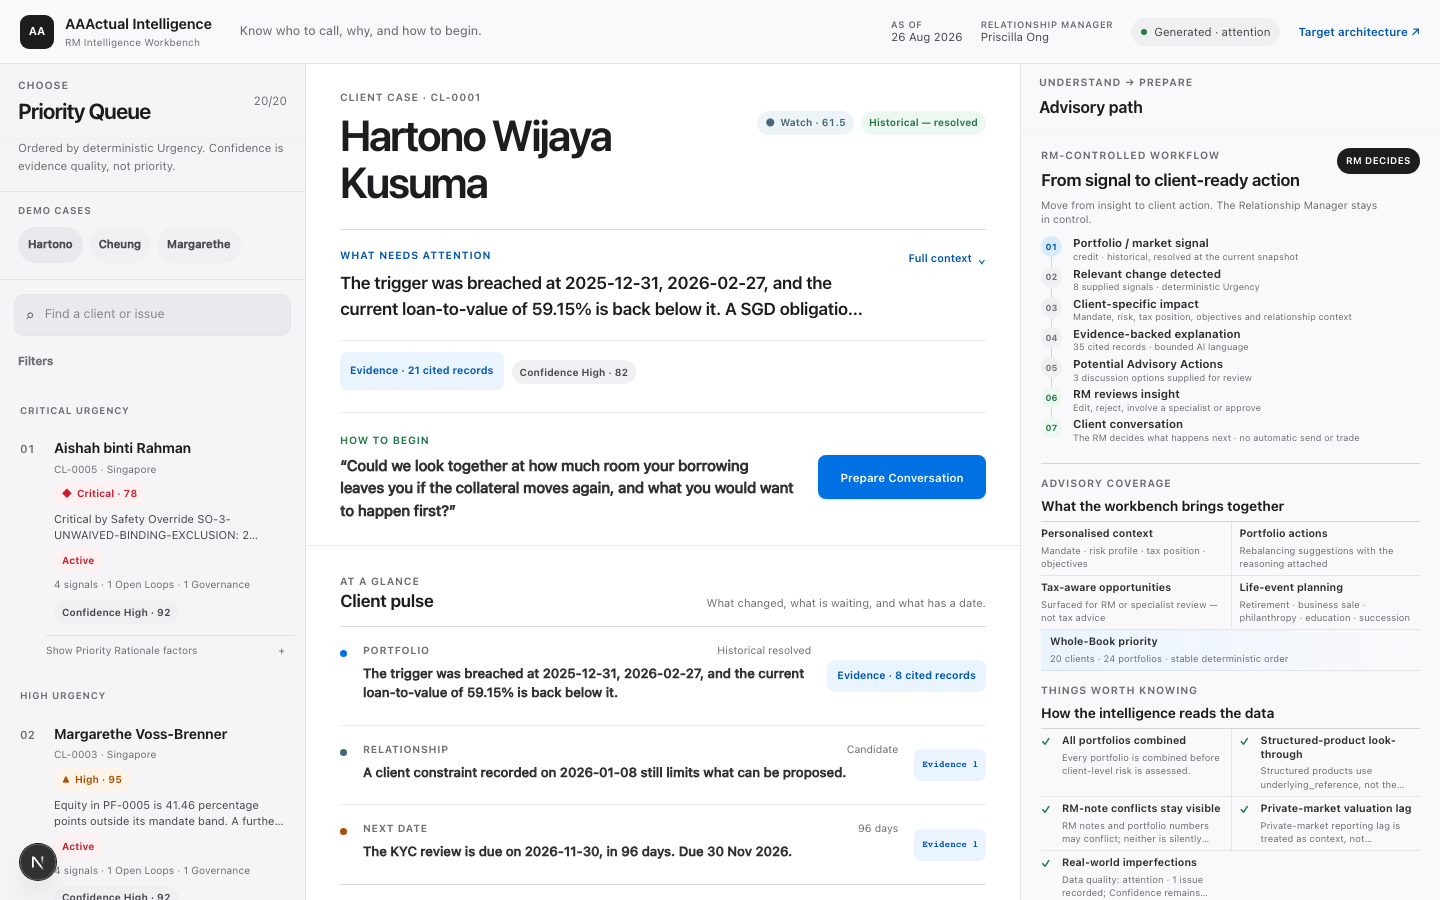
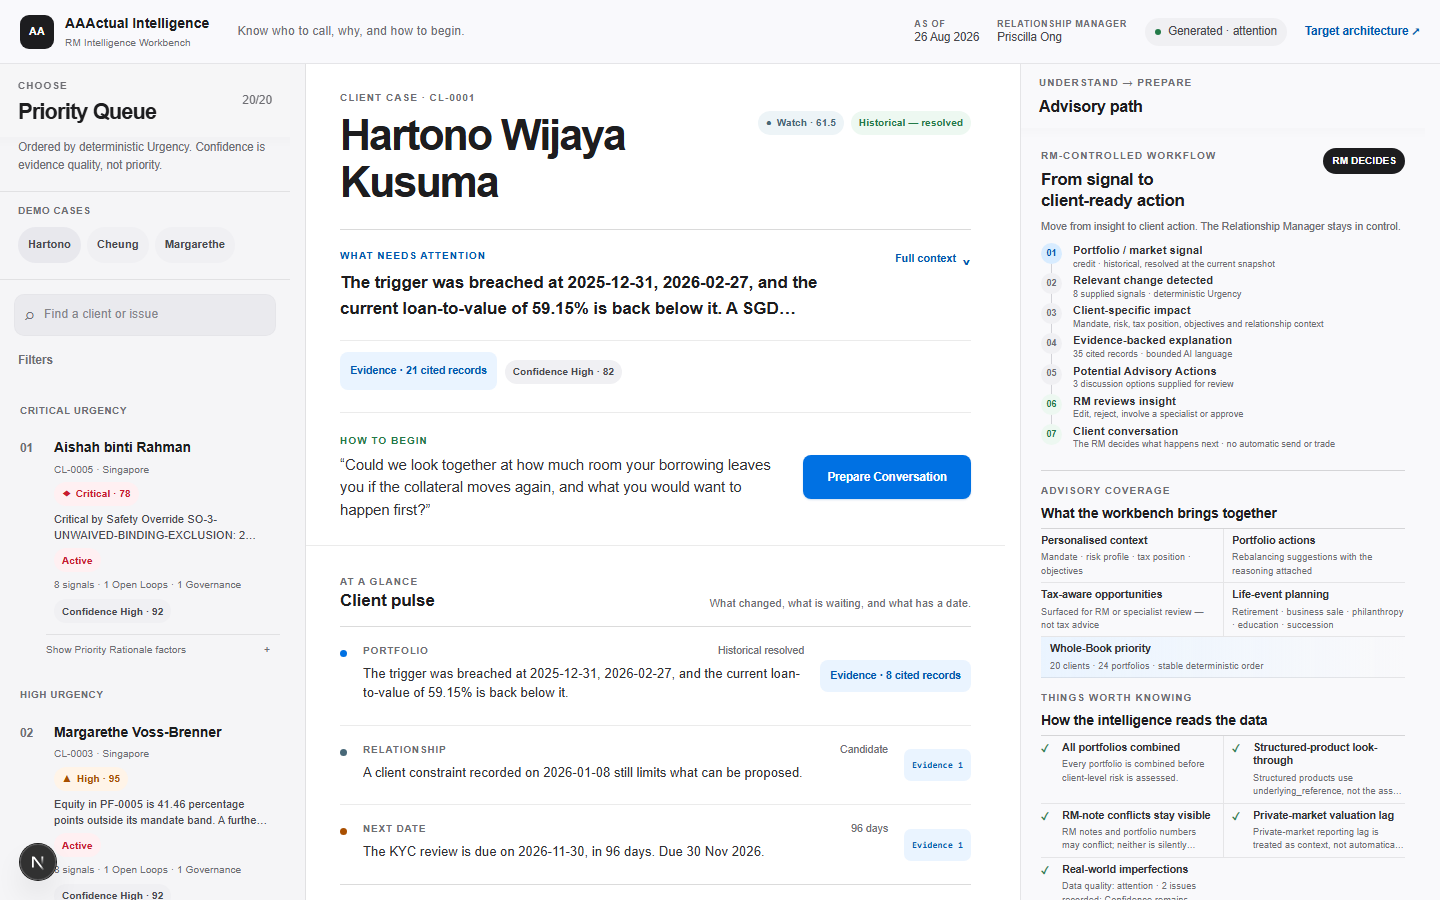
Report every signal on the queue card, not the first four
Merging the refreshed workbench surfaced a defect that spans the
contract boundary. The engine capped priorityQueue[].signalSummaries at
four entries as a display convenience, while the queue card renders that
list's length as the client's signal count and Book search matches
against its contents.

The result was two numbers disagreeing about the same client on one
screen: the card read "4 signals" while the new Advisory path pane, which
counts anticipatorySignals directly, read the true figure. Eighteen of
twenty SingHacks clients were under-reported, and any signal past the
fourth was invisible to search.

The cap is removed rather than the count being recomputed in the browser,
because the artifact owns the facts and no schema change is needed. A
regression test pins the queue row against the case's own signal list.

Ranking is untouched: 0 queue rows changed, tiers unchanged.

Engine 242 tests, web unit 32, Playwright 9, tsc and build all pass.

diff --git a/engine/src/jb_clarity/build.py b/engine/src/jb_clarity/build.py
@@ -199,7 +199,12 @@ def build_workbench(
                     priority_rationale=_priority_rationale(case, urgency_result),
                     factor_contributions=case.factor_contributions,
                     status=case.status,
-                    signal_summaries=[s.summary for s in signals[:4]],
+                    # Every signal, not a sample. The queue card reports this
+                    # list's length as the client's signal count and the Book
+                    # search matches against its contents, so truncating here
+                    # made the card under-report and hid later signals from
+                    # search.
+                    signal_summaries=[s.summary for s in signals],
                     open_loop_count=len(loops),
                     governance_clock_count=len(clocks),
                 ),

diff --git a/engine/tests/test_queue.py b/engine/tests/test_queue.py
@@ -117,6 +117,18 @@ def test_demonstration_clients_are_not_promoted(model):
     assert max(ranks.values()) > 3
 
 
+def test_the_queue_row_reports_every_signal_not_a_sample(model, cases_by_client):
+    """The card renders this list's length as the client's signal count.
+
+    Truncating it made 18 of 20 clients under-report, and hid the omitted
+    signals from Book search, which matches against these summaries.
+    """
+    for item in model.book.priority_queue:
+        case = cases_by_client[item.client_id]
+        assert len(item.signal_summaries) == len(case.anticipatory_signals)
+        assert item.signal_summaries == [s.summary for s in case.anticipatory_signals]
+
+
 def test_every_queue_row_answers_why_now(model):
     for item in model.book.priority_queue:
         assert item.priority_rationale.strip()
